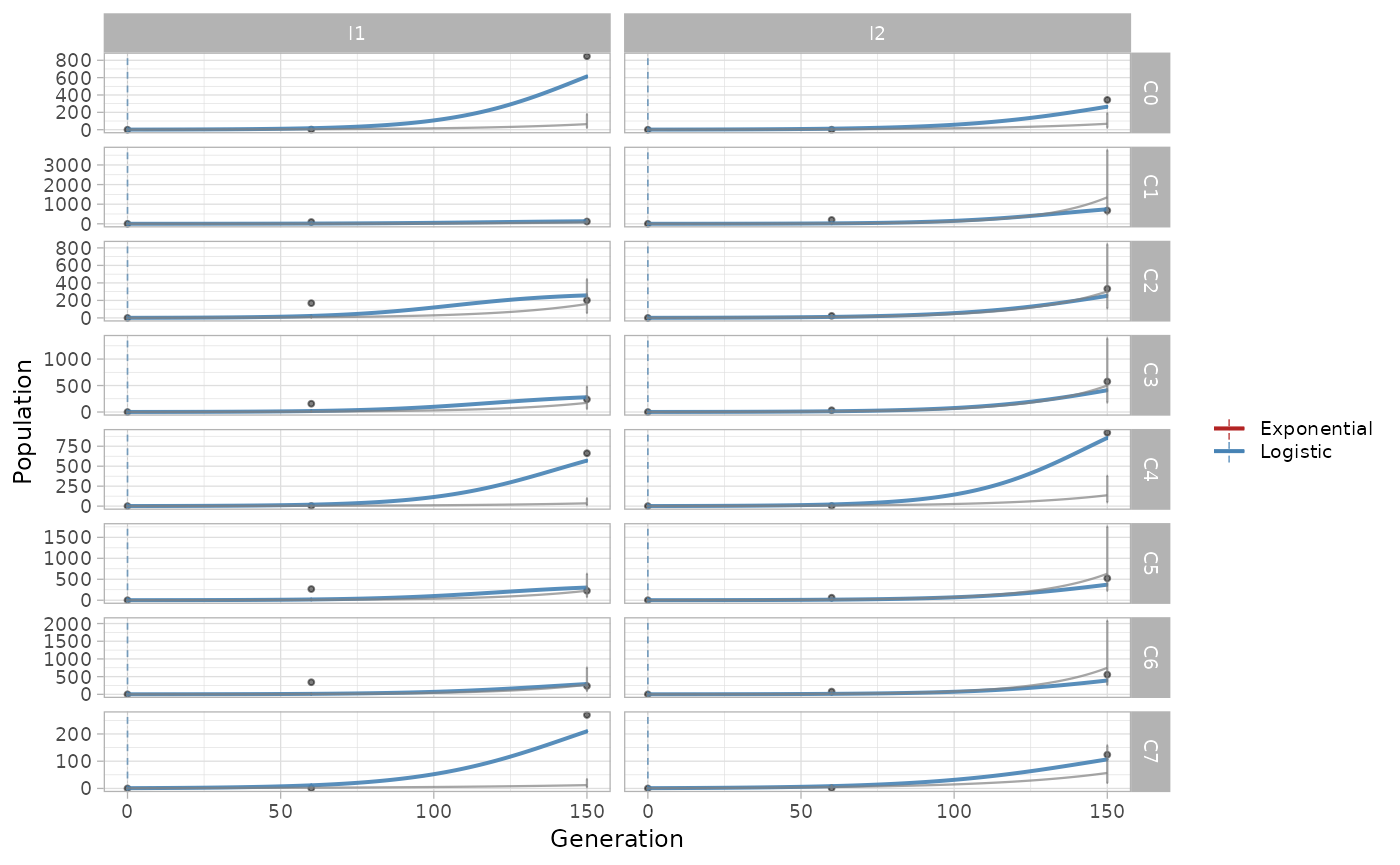
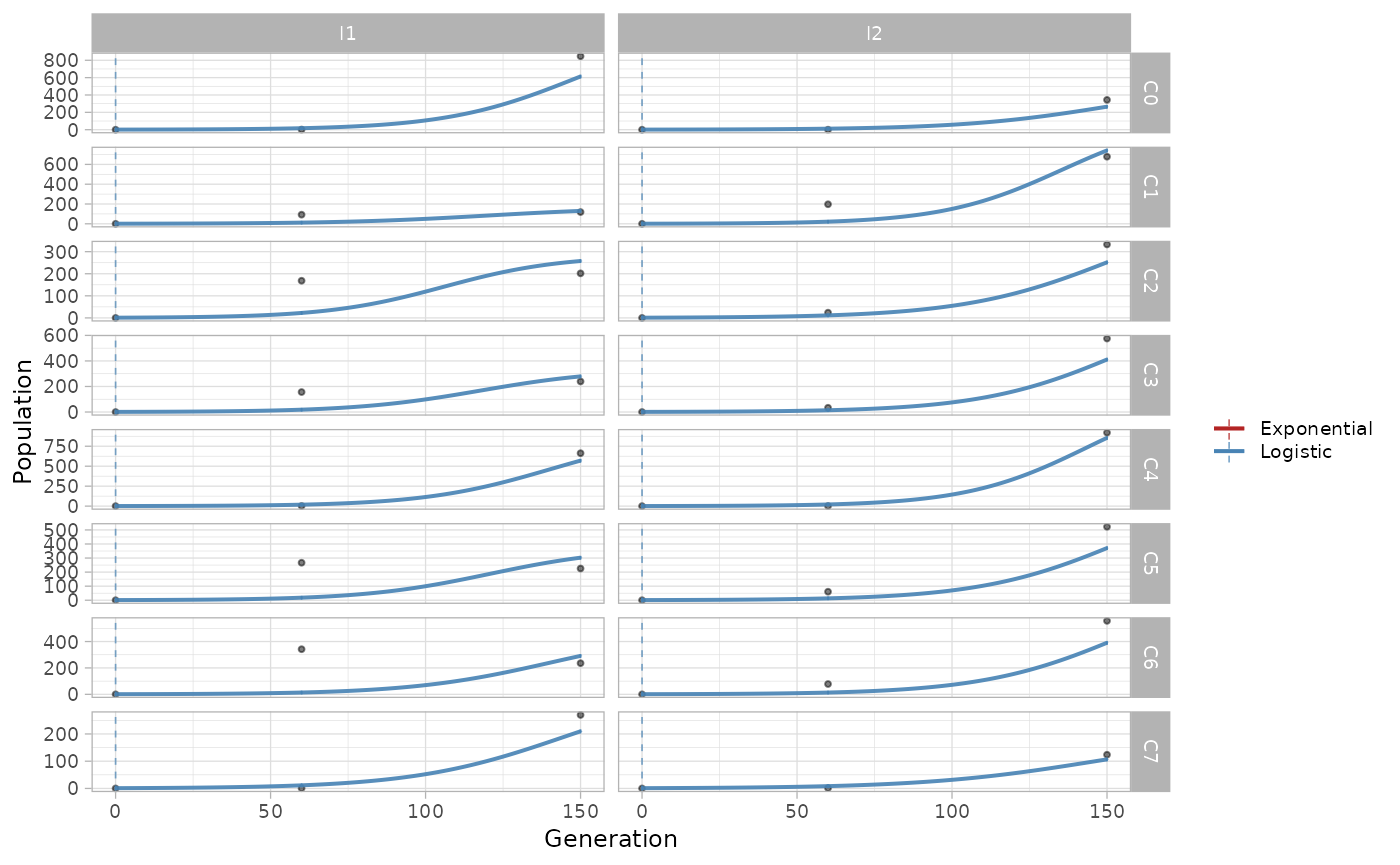
Built site for lineaGT: 0.1.0@16730db

diff --git a/articles/Lineage-inference.html b/articles/Lineage-inference.html
@@ -151,11 +151,11 @@
 <span id="cb4-24"><a href="#cb4-24"></a><span class="co">#&gt;  [36mℹ [39m Starting clustering of clone C0 mutations</span></span>
 <span id="cb4-25"><a href="#cb4-25"></a><span class="co">#&gt; ──  [30m [43m[ VIBER ] My VIBER model [49m [39m n = 3 (w = 4 dimensions). Fit with  [32mk = 3 [39m clusters. ─</span></span>
 <span id="cb4-26"><a href="#cb4-26"></a><span class="co">#&gt;  [36mℹ [39m Starting clustering of clone C0 mutations</span></span>
-<span id="cb4-27"><a href="#cb4-27"></a>• Clusters<span class="op">:</span><span class="st"> </span>π =<span class="st"> </span><span class="dv">100</span>% [ [33mC2 [39m], with π <span class="op">&gt;</span><span class="st"> </span><span class="fl">0.</span></span>
+<span id="cb4-27"><a href="#cb4-27"></a>• Clusters<span class="op">:</span><span class="st"> </span>π =<span class="st"> </span><span class="dv">100</span>% [ [33mC1 [39m], with π <span class="op">&gt;</span><span class="st"> </span><span class="fl">0.</span></span>
 <span id="cb4-28"><a href="#cb4-28"></a><span class="co">#&gt;  [36mℹ [39m Starting clustering of clone C0 mutations</span></span>
-<span id="cb4-29"><a href="#cb4-29"></a>• Binomials<span class="op">:</span><span class="st"> </span>θ =<span class="st"> </span><span class="er">&lt;</span><span class="dv">0</span>, <span class="fl">0.01</span>, <span class="fl">0.01</span>, <span class="dv">0</span><span class="op">&gt;</span><span class="st"> </span>[ [33mC2 [39m].</span>
+<span id="cb4-29"><a href="#cb4-29"></a>• Binomials<span class="op">:</span><span class="st"> </span>θ =<span class="st"> </span><span class="er">&lt;</span><span class="dv">0</span>, <span class="fl">0.01</span>, <span class="fl">0.01</span>, <span class="dv">0</span><span class="op">&gt;</span><span class="st"> </span>[ [33mC1 [39m].</span>
 <span id="cb4-30"><a href="#cb4-30"></a><span class="co">#&gt;  [36mℹ [39m Starting clustering of clone C0 mutations</span></span>
-<span id="cb4-31"><a href="#cb4-31"></a> [36mℹ [39m <span class="kw">Score</span>(s)<span class="op">:</span><span class="st"> </span>ELBO =<span class="st"> </span><span class="dv">-95</span>.<span class="fl">361.</span> Fit  [32mconverged [39m <span class="cf">in</span> <span class="dv">5</span> steps, ε =<span class="st"> </span>1e<span class="fl">-10.</span></span>
+<span id="cb4-31"><a href="#cb4-31"></a> [36mℹ [39m <span class="kw">Score</span>(s)<span class="op">:</span><span class="st"> </span>ELBO =<span class="st"> </span><span class="dv">-95</span>.<span class="fl">364.</span> Fit  [32mconverged [39m <span class="cf">in</span> <span class="dv">6</span> steps, ε =<span class="st"> </span>1e<span class="fl">-10.</span></span>
 <span id="cb4-32"><a href="#cb4-32"></a><span class="co">#&gt;  [36mℹ [39m Starting clustering of clone C0 mutations</span></span>
 <span id="cb4-33"><a href="#cb4-33"></a> [32m✔ [39m Reduced to k =<span class="st"> </span><span class="dv">1</span> (from <span class="dv">3</span>) selecting VIBER <span class="kw">cluster</span>(s) with π <span class="op">&gt;</span><span class="st"> </span><span class="fl">0.166666666666667</span>, and Binomial p <span class="op">&gt;</span><span class="st"> </span><span class="dv">0</span> <span class="cf">in</span> w <span class="op">&gt;</span><span class="st"> </span><span class="dv">0</span> <span class="kw">dimension</span>(s).</span>
 <span id="cb4-34"><a href="#cb4-34"></a><span class="co">#&gt;  [36mℹ [39m Starting clustering of clone C0 mutations</span></span>
@@ -169,7 +169,7 @@
 <span id="cb4-42"><a href="#cb4-42"></a><span class="co">#&gt;  [36mℹ [39m Starting clustering of clone C1 mutations</span></span>
 <span id="cb4-43"><a href="#cb4-43"></a> [36mℹ [39m <span class="kw">Beta</span> (a_<span class="dv">0</span>, b_<span class="dv">0</span>) =<span class="st"> </span>(<span class="dv">1</span>, <span class="dv">1</span>); q_i =<span class="st"> </span>prior. Optimise<span class="op">:</span><span class="st"> </span>ε =<span class="st"> </span><span class="fl">1e-10</span> or <span class="dv">5000</span> steps, r =<span class="st"> </span><span class="dv">10</span> starts.</span>
 <span id="cb4-44"><a href="#cb4-44"></a><span class="co">#&gt;  [36mℹ [39m Starting clustering of clone C1 mutations</span></span>
-<span id="cb4-45"><a href="#cb4-45"></a><span class="co">#&gt;  [32m✔ [39m  [1mVIBER fit [22m completed in 0.07 mins (status:  [32mconverged [39m)</span></span>
+<span id="cb4-45"><a href="#cb4-45"></a><span class="co">#&gt;  [32m✔ [39m  [1mVIBER fit [22m completed in 0.06 mins (status:  [32mconverged [39m)</span></span>
 <span id="cb4-46"><a href="#cb4-46"></a><span class="co">#&gt;  [36mℹ [39m Starting clustering of clone C1 mutations</span></span>
 <span id="cb4-47"><a href="#cb4-47"></a><span class="co">#&gt; ──  [30m [43m[ VIBER ] My VIBER model [49m [39m n = 8 (w = 4 dimensions). Fit with  [32mk = 8 [39m clusters. ─</span></span>
 <span id="cb4-48"><a href="#cb4-48"></a><span class="co">#&gt;  [36mℹ [39m Starting clustering of clone C1 mutations</span></span>
@@ -177,7 +177,7 @@
 <span id="cb4-50"><a href="#cb4-50"></a><span class="co">#&gt;  [36mℹ [39m Starting clustering of clone C1 mutations</span></span>
 <span id="cb4-51"><a href="#cb4-51"></a>• Binomials<span class="op">:</span><span class="st"> </span>θ =<span class="st"> </span><span class="er">&lt;</span><span class="dv">0</span>, <span class="dv">0</span>, <span class="dv">0</span>, <span class="dv">0</span><span class="op">&gt;</span><span class="st"> </span>[ [33mC3 [39m].</span>
 <span id="cb4-52"><a href="#cb4-52"></a><span class="co">#&gt;  [36mℹ [39m Starting clustering of clone C1 mutations</span></span>
-<span id="cb4-53"><a href="#cb4-53"></a> [36mℹ [39m <span class="kw">Score</span>(s)<span class="op">:</span><span class="st"> </span>ELBO =<span class="st"> </span><span class="dv">-212</span>.<span class="fl">205.</span> Fit  [32mconverged [39m <span class="cf">in</span> <span class="dv">6</span> steps, ε =<span class="st"> </span>1e<span class="fl">-10.</span></span>
+<span id="cb4-53"><a href="#cb4-53"></a> [36mℹ [39m <span class="kw">Score</span>(s)<span class="op">:</span><span class="st"> </span>ELBO =<span class="st"> </span><span class="dv">-212</span>.<span class="fl">188.</span> Fit  [32mconverged [39m <span class="cf">in</span> <span class="dv">6</span> steps, ε =<span class="st"> </span>1e<span class="fl">-10.</span></span>
 <span id="cb4-54"><a href="#cb4-54"></a><span class="co">#&gt;  [36mℹ [39m Starting clustering of clone C1 mutations</span></span>
 <span id="cb4-55"><a href="#cb4-55"></a> [32m✔ [39m Reduced to k =<span class="st"> </span><span class="dv">1</span> (from <span class="dv">8</span>) selecting VIBER <span class="kw">cluster</span>(s) with π <span class="op">&gt;</span><span class="st"> </span><span class="fl">0.0625</span>, and Binomial p <span class="op">&gt;</span><span class="st"> </span><span class="dv">0</span> <span class="cf">in</span> w <span class="op">&gt;</span><span class="st"> </span><span class="dv">0</span> <span class="kw">dimension</span>(s).</span>
 <span id="cb4-56"><a href="#cb4-56"></a><span class="co">#&gt;  [36mℹ [39m Starting clustering of clone C1 mutations</span></span>
@@ -197,7 +197,7 @@
 <span id="cb4-70"><a href="#cb4-70"></a><span class="co">#&gt;  [36mℹ [39m Starting clustering of clone C4 mutations</span></span>
 <span id="cb4-71"><a href="#cb4-71"></a> [36mℹ [39m <span class="kw">Beta</span> (a_<span class="dv">0</span>, b_<span class="dv">0</span>) =<span class="st"> </span>(<span class="dv">1</span>, <span class="dv">1</span>); q_i =<span class="st"> </span>prior. Optimise<span class="op">:</span><span class="st"> </span>ε =<span class="st"> </span><span class="fl">1e-10</span> or <span class="dv">5000</span> steps, r =<span class="st"> </span><span class="dv">10</span> starts.</span>
 <span id="cb4-72"><a href="#cb4-72"></a><span class="co">#&gt;  [36mℹ [39m Starting clustering of clone C4 mutations</span></span>
-<span id="cb4-73"><a href="#cb4-73"></a><span class="co">#&gt;  [32m✔ [39m  [1mVIBER fit [22m completed in 0.07 mins (status:  [32mconverged [39m)</span></span>
+<span id="cb4-73"><a href="#cb4-73"></a><span class="co">#&gt;  [32m✔ [39m  [1mVIBER fit [22m completed in 0.06 mins (status:  [32mconverged [39m)</span></span>
 <span id="cb4-74"><a href="#cb4-74"></a><span class="co">#&gt;  [36mℹ [39m Starting clustering of clone C4 mutations</span></span>
 <span id="cb4-75"><a href="#cb4-75"></a><span class="co">#&gt; ──  [30m [43m[ VIBER ] My VIBER model [49m [39m n = 6 (w = 4 dimensions). Fit with  [32mk = 6 [39m clusters. ─</span></span>
 <span id="cb4-76"><a href="#cb4-76"></a><span class="co">#&gt;  [36mℹ [39m Starting clustering of clone C4 mutations</span></span>
@@ -205,7 +205,7 @@
 <span id="cb4-78"><a href="#cb4-78"></a><span class="co">#&gt;  [36mℹ [39m Starting clustering of clone C4 mutations</span></span>
 <span id="cb4-79"><a href="#cb4-79"></a>• Binomials<span class="op">:</span><span class="st"> </span>θ =<span class="st"> </span><span class="er">&lt;</span><span class="dv">0</span>, <span class="dv">0</span>, <span class="fl">0.01</span>, <span class="dv">0</span><span class="op">&gt;</span><span class="st"> </span>[ [33mC4 [39m].</span>
 <span id="cb4-80"><a href="#cb4-80"></a><span class="co">#&gt;  [36mℹ [39m Starting clustering of clone C4 mutations</span></span>
-<span id="cb4-81"><a href="#cb4-81"></a> [36mℹ [39m <span class="kw">Score</span>(s)<span class="op">:</span><span class="st"> </span>ELBO =<span class="st"> </span><span class="dv">-179</span>.<span class="fl">327.</span> Fit  [32mconverged [39m <span class="cf">in</span> <span class="dv">8</span> steps, ε =<span class="st"> </span>1e<span class="fl">-10.</span></span>
+<span id="cb4-81"><a href="#cb4-81"></a> [36mℹ [39m <span class="kw">Score</span>(s)<span class="op">:</span><span class="st"> </span>ELBO =<span class="st"> </span><span class="dv">-179</span>.<span class="fl">309.</span> Fit  [32mconverged [39m <span class="cf">in</span> <span class="dv">6</span> steps, ε =<span class="st"> </span>1e<span class="fl">-10.</span></span>
 <span id="cb4-82"><a href="#cb4-82"></a><span class="co">#&gt;  [36mℹ [39m Starting clustering of clone C4 mutations</span></span>
 <span id="cb4-83"><a href="#cb4-83"></a> [32m✔ [39m Reduced to k =<span class="st"> </span><span class="dv">1</span> (from <span class="dv">6</span>) selecting VIBER <span class="kw">cluster</span>(s) with π <span class="op">&gt;</span><span class="st"> </span><span class="fl">0.0833333333333333</span>, and Binomial p <span class="op">&gt;</span><span class="st"> </span><span class="dv">0</span> <span class="cf">in</span> w <span class="op">&gt;</span><span class="st"> </span><span class="dv">0</span> <span class="kw">dimension</span>(s).</span>
 <span id="cb4-84"><a href="#cb4-84"></a><span class="co">#&gt;  [36mℹ [39m Starting clustering of clone C4 mutations</span></span>
@@ -229,11 +229,11 @@
 <span id="cb4-102"><a href="#cb4-102"></a><span class="co">#&gt;  [36mℹ [39m Starting clustering of clone C7 mutations</span></span>
 <span id="cb4-103"><a href="#cb4-103"></a><span class="co">#&gt; ──  [30m [43m[ VIBER ] My VIBER model [49m [39m n = 2 (w = 4 dimensions). Fit with  [32mk = 2 [39m clusters. ─</span></span>
 <span id="cb4-104"><a href="#cb4-104"></a><span class="co">#&gt;  [36mℹ [39m Starting clustering of clone C7 mutations</span></span>
-<span id="cb4-105"><a href="#cb4-105"></a>• Clusters<span class="op">:</span><span class="st"> </span>π =<span class="st"> </span><span class="dv">100</span>% [ [33mC2 [39m], with π <span class="op">&gt;</span><span class="st"> </span><span class="fl">0.</span></span>
+<span id="cb4-105"><a href="#cb4-105"></a>• Clusters<span class="op">:</span><span class="st"> </span>π =<span class="st"> </span><span class="dv">100</span>% [ [33mC1 [39m], with π <span class="op">&gt;</span><span class="st"> </span><span class="fl">0.</span></span>
 <span id="cb4-106"><a href="#cb4-106"></a><span class="co">#&gt;  [36mℹ [39m Starting clustering of clone C7 mutations</span></span>
-<span id="cb4-107"><a href="#cb4-107"></a>• Binomials<span class="op">:</span><span class="st"> </span>θ =<span class="st"> </span><span class="er">&lt;</span><span class="fl">0.01</span>, <span class="dv">0</span>, <span class="dv">0</span>, <span class="dv">0</span><span class="op">&gt;</span><span class="st"> </span>[ [33mC2 [39m].</span>
+<span id="cb4-107"><a href="#cb4-107"></a>• Binomials<span class="op">:</span><span class="st"> </span>θ =<span class="st"> </span><span class="er">&lt;</span><span class="fl">0.01</span>, <span class="dv">0</span>, <span class="dv">0</span>, <span class="dv">0</span><span class="op">&gt;</span><span class="st"> </span>[ [33mC1 [39m].</span>
 <span id="cb4-108"><a href="#cb4-108"></a><span class="co">#&gt;  [36mℹ [39m Starting clustering of clone C7 mutations</span></span>
-<span id="cb4-109"><a href="#cb4-109"></a> [36mℹ [39m <span class="kw">Score</span>(s)<span class="op">:</span><span class="st"> </span>ELBO =<span class="st"> </span><span class="dv">-97</span>.<span class="fl">421.</span> Fit  [32mconverged [39m <span class="cf">in</span> <span class="dv">7</span> steps, ε =<span class="st"> </span>1e<span class="fl">-10.</span></span>
+<span id="cb4-109"><a href="#cb4-109"></a> [36mℹ [39m <span class="kw">Score</span>(s)<span class="op">:</span><span class="st"> </span>ELBO =<span class="st"> </span><span class="dv">-97</span>.<span class="fl">449.</span> Fit  [32mconverged [39m <span class="cf">in</span> <span class="dv">6</span> steps, ε =<span class="st"> </span>1e<span class="fl">-10.</span></span>
 <span id="cb4-110"><a href="#cb4-110"></a><span class="co">#&gt;  [36mℹ [39m Starting clustering of clone C7 mutations</span></span>
 <span id="cb4-111"><a href="#cb4-111"></a> [32m✔ [39m Reduced to k =<span class="st"> </span><span class="dv">1</span> (from <span class="dv">2</span>) selecting VIBER <span class="kw">cluster</span>(s) with π <span class="op">&gt;</span><span class="st"> </span><span class="fl">0.25</span>, and Binomial p <span class="op">&gt;</span><span class="st"> </span><span class="dv">0</span> <span class="cf">in</span> w <span class="op">&gt;</span><span class="st"> </span><span class="dv">0</span> <span class="kw">dimension</span>(s).</span>
 <span id="cb4-112"><a href="#cb4-112"></a><span class="co">#&gt;  [36mℹ [39m Starting clustering of clone C7 mutations</span></span>
